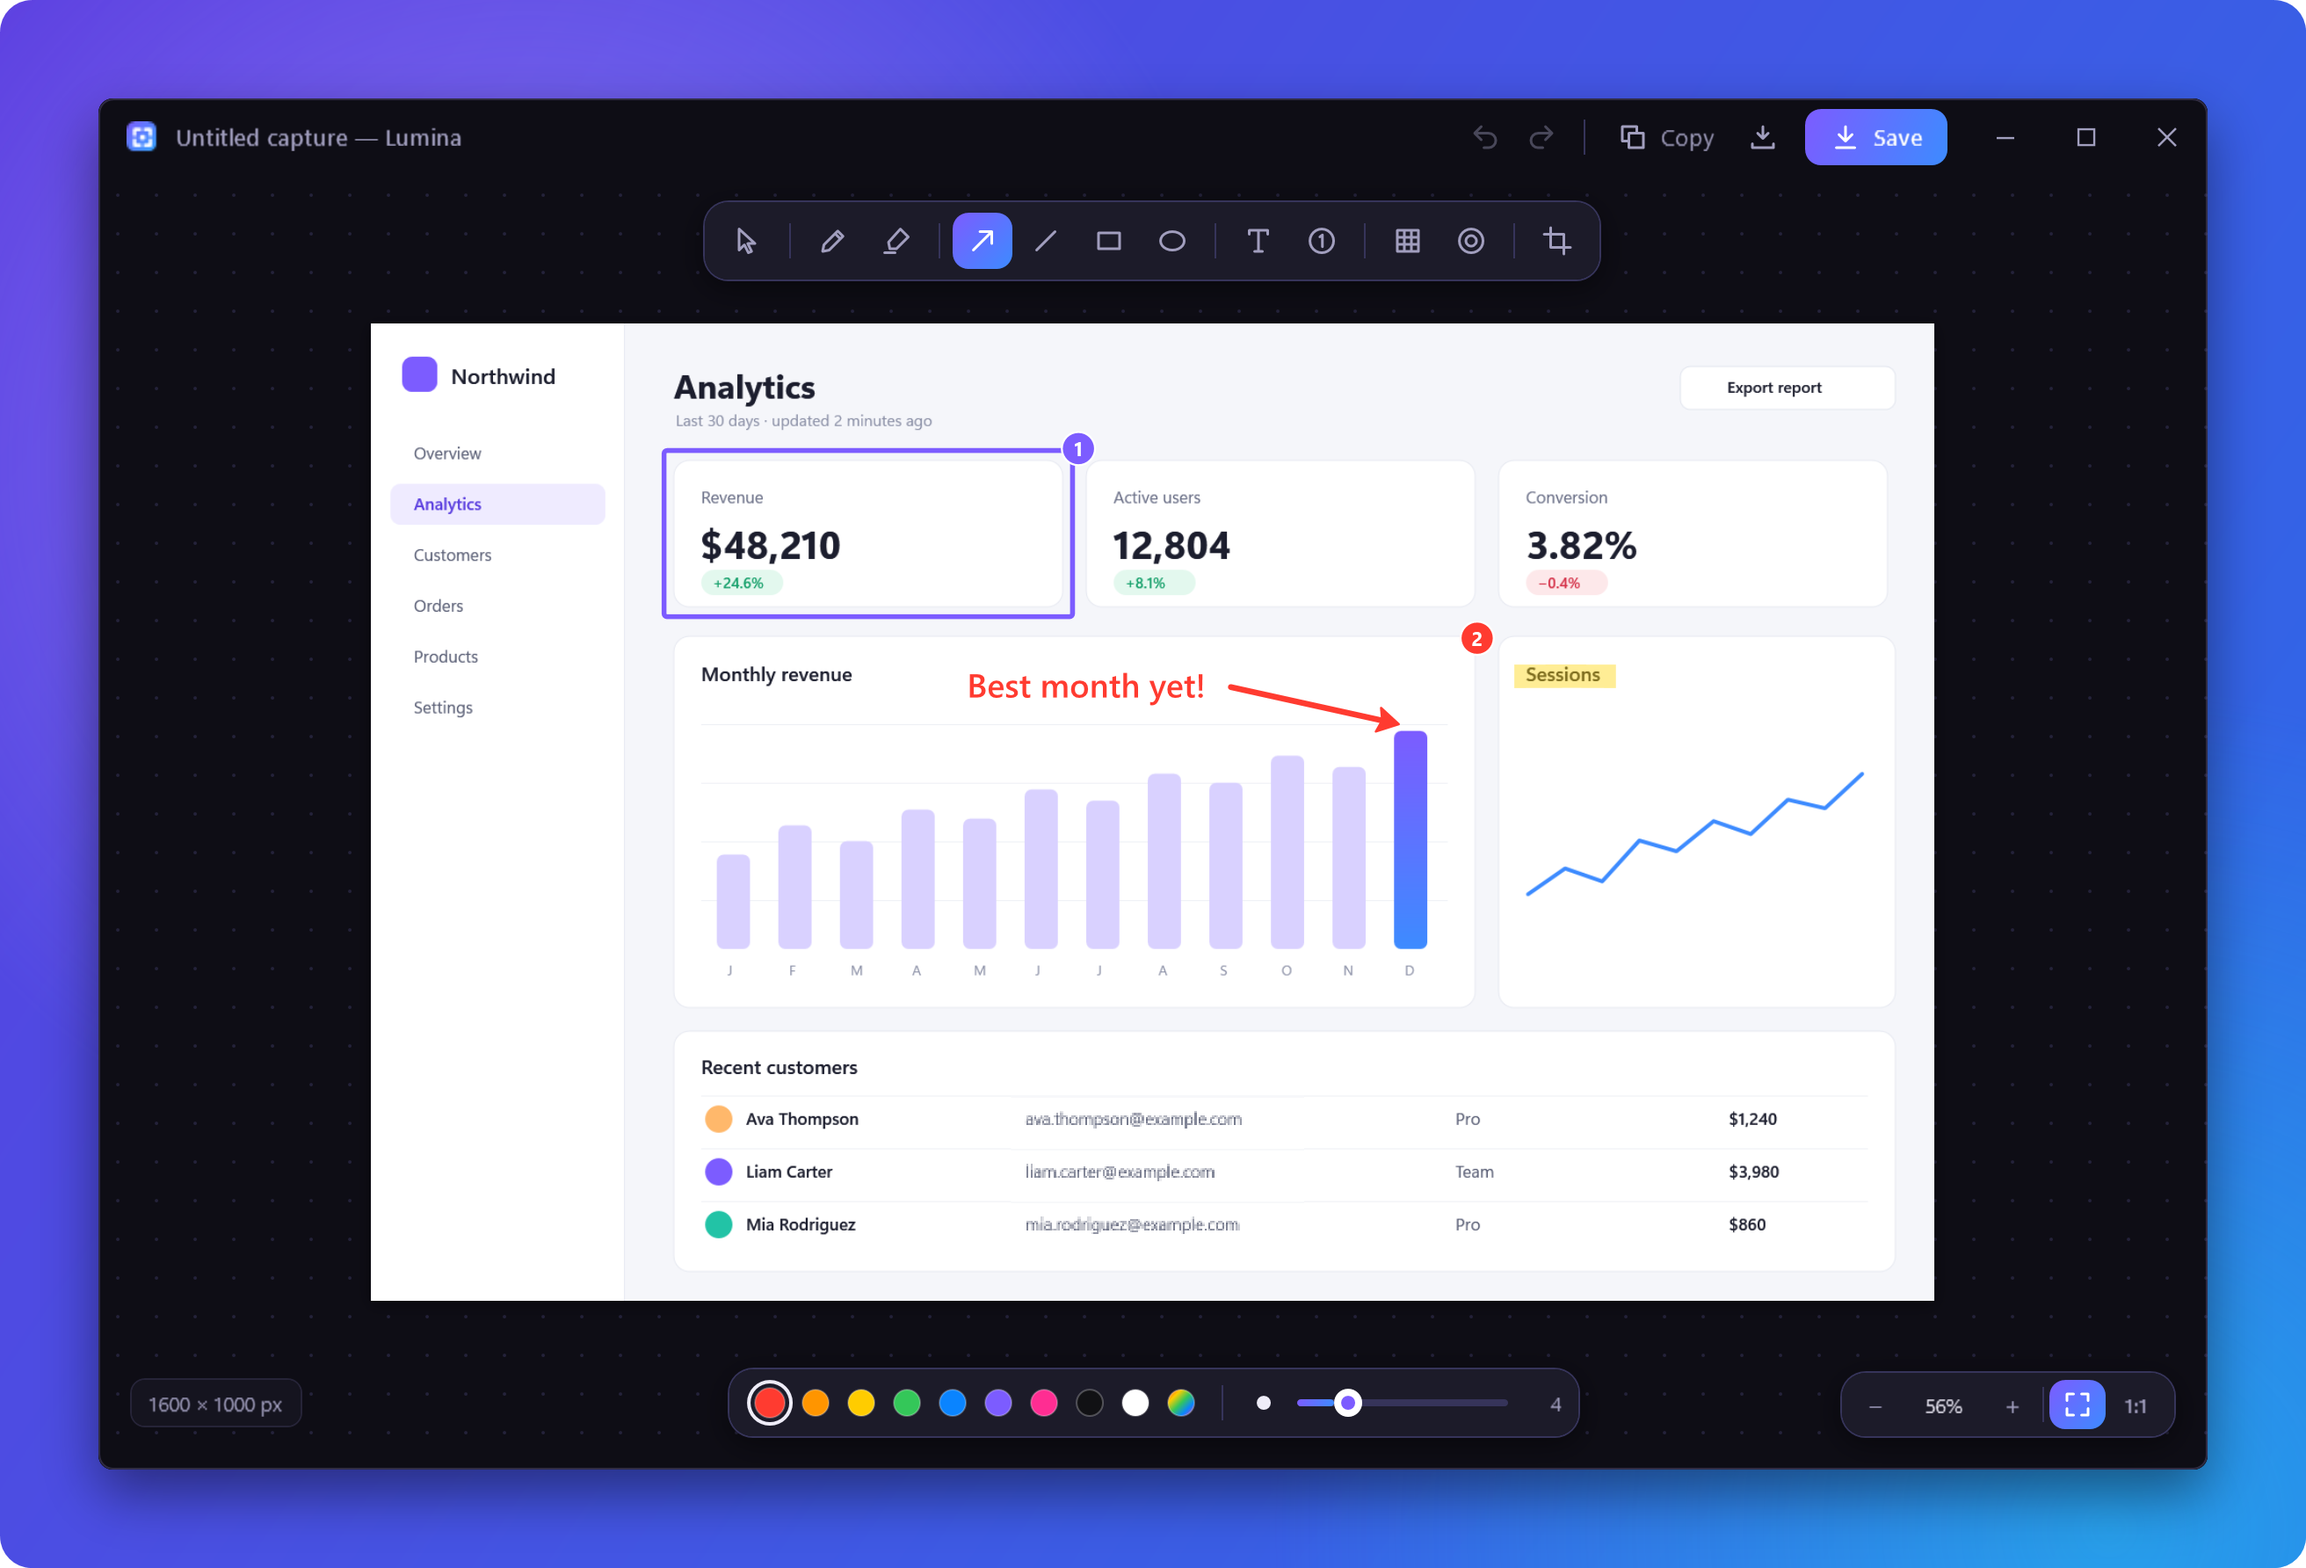
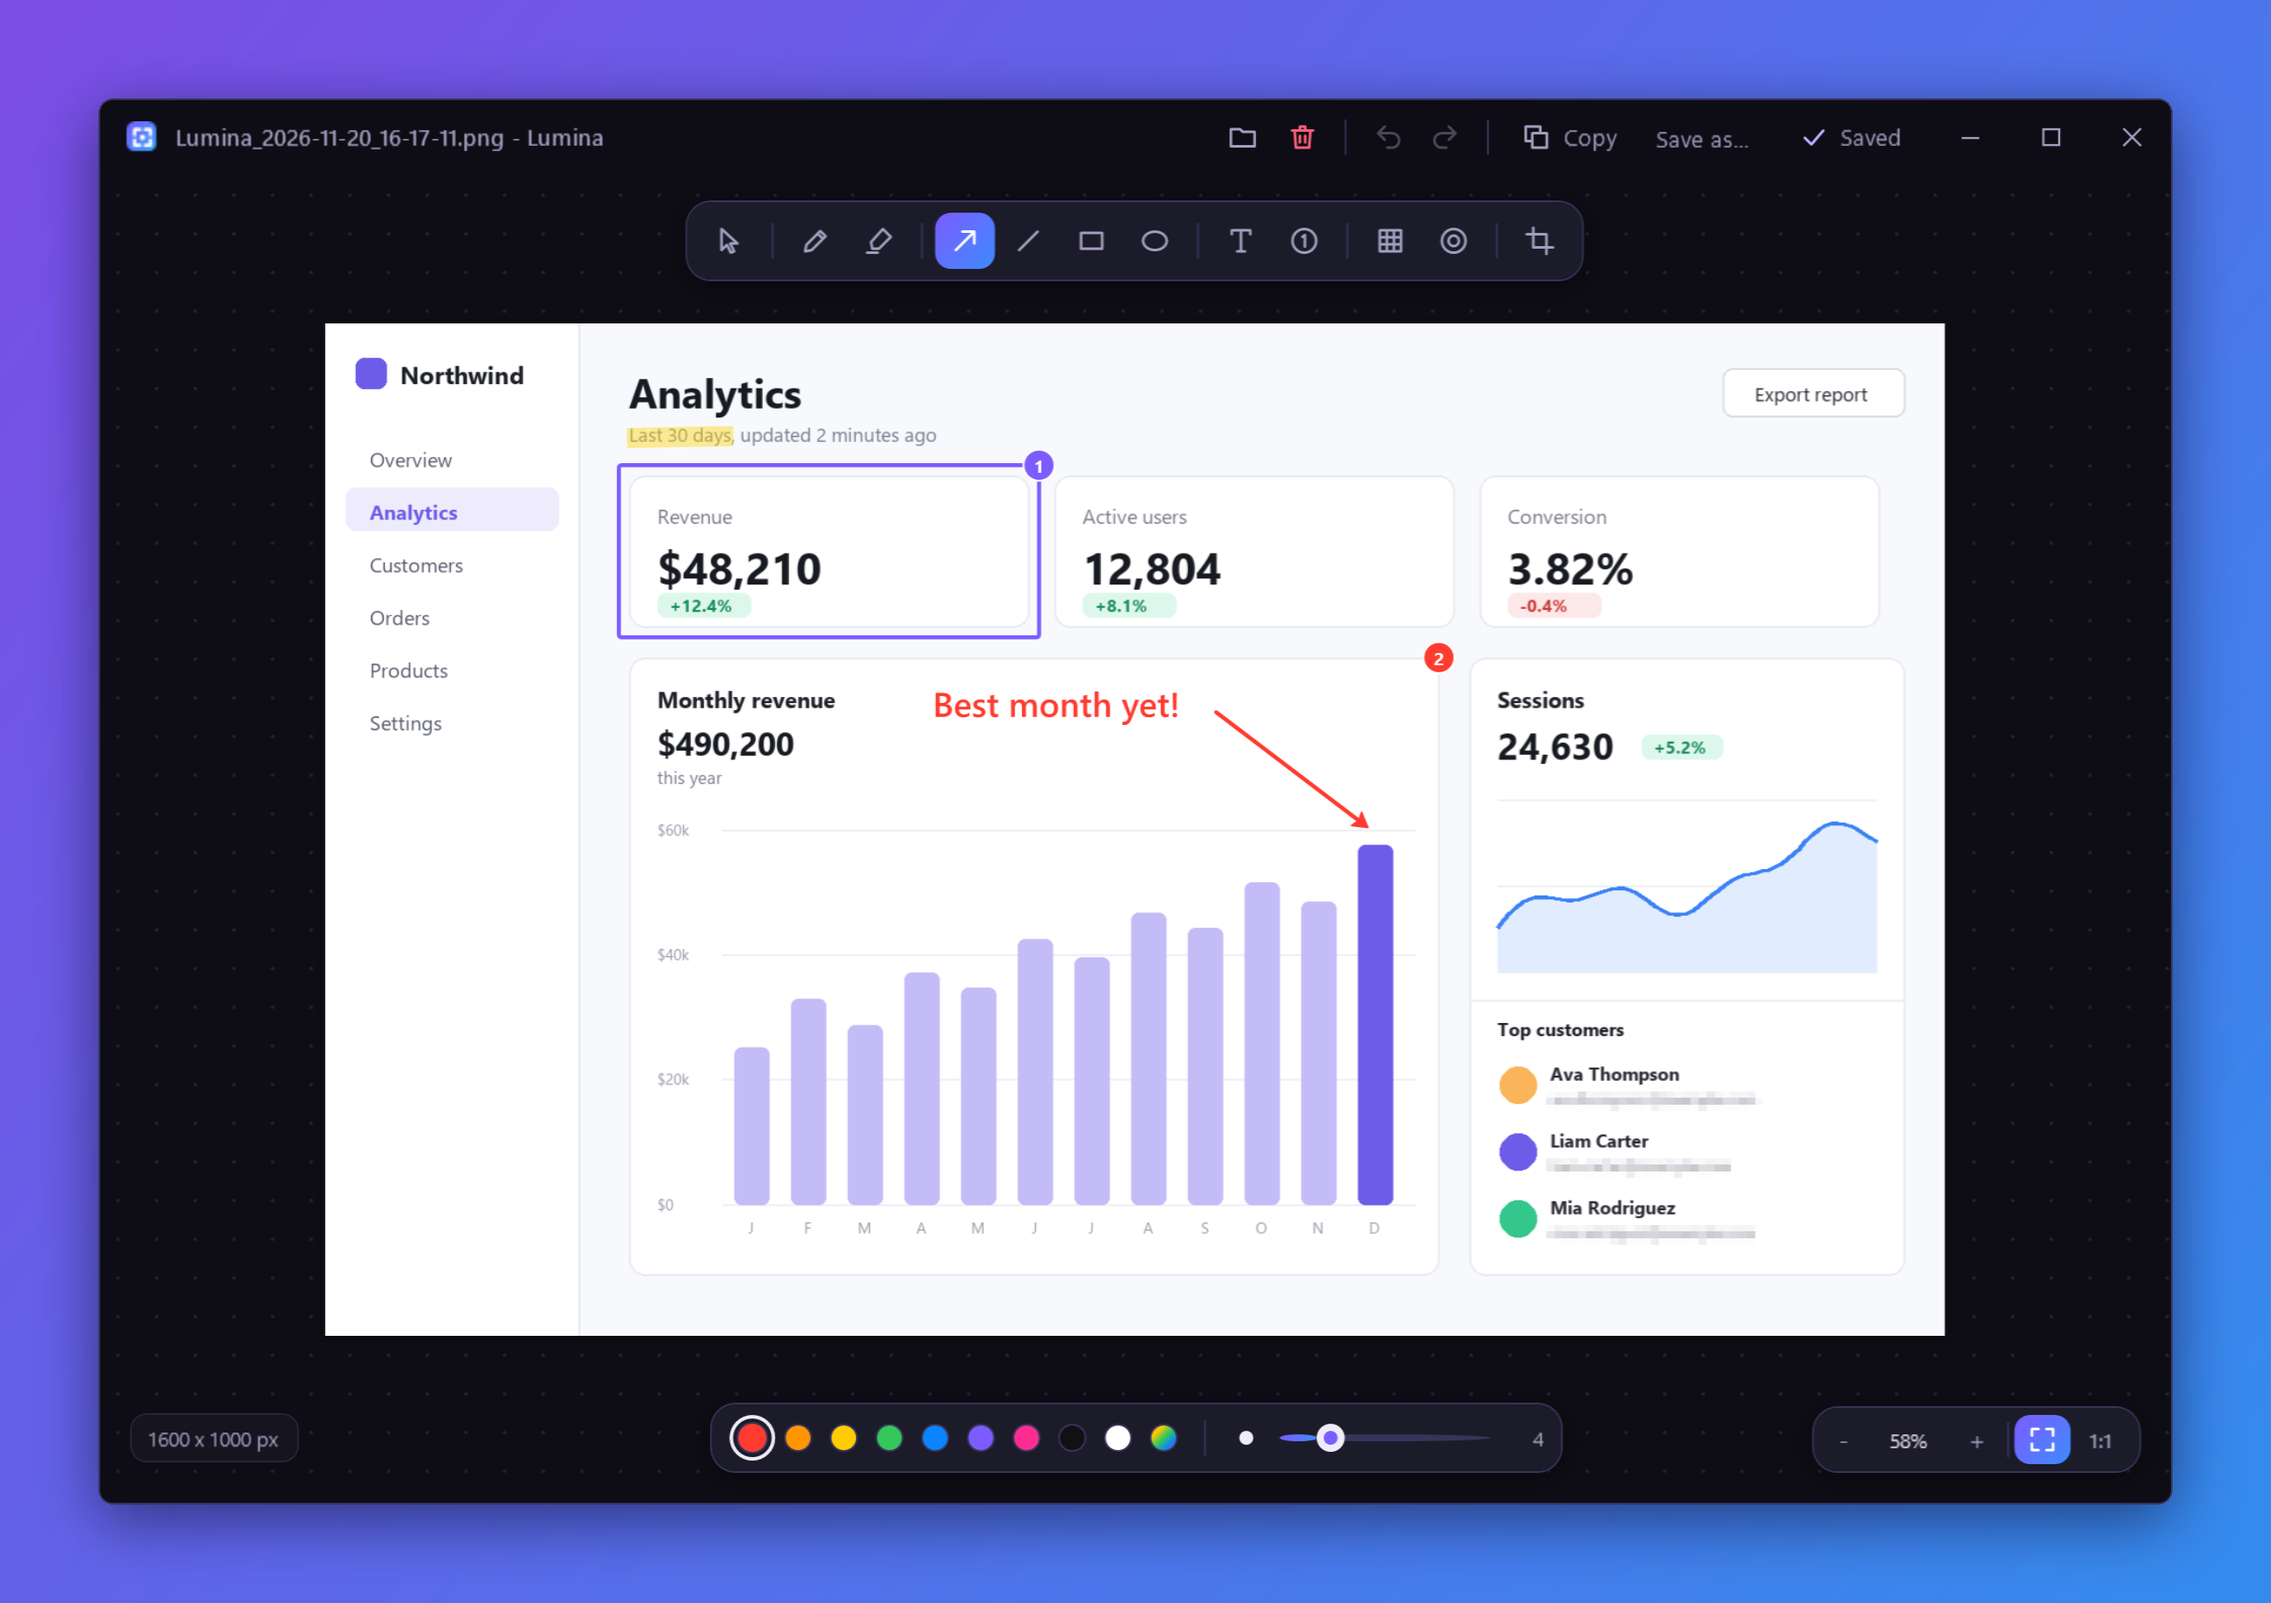
README: new editor, trim and themes screenshots (#12)
The markup editor and trim screenshots now show the current UI, rendered
from the real windows with made-up demo content. The themes section shows
the six preset tiles from Settings > Appearance instead of the stacked
windows, and the separate Appearance screenshot is gone.

diff --git a/README.md b/README.md
@@ -32,7 +32,7 @@ A lightweight, modern screenshot and screen recording tool for Windows - a repla
 - Open any image file from the home window to mark it up.
 - Smooth zoom (Ctrl + scroll zooms around the cursor), fit-to-window and 1:1, full undo/redo.
 
-![The markup editor with a box, numbered steps, an arrow, text, a highlight and blurred emails](docs/screenshots/editor.png)
+![The markup editor with a box, numbered steps, an arrow, text, a highlight and pixelated emails](docs/screenshots/editor.png)
 
 ### Screen recording
 - **Win + Shift + R** (or the Record card / tray menu) picks a region, window or screen with the same overlay, then counts down and records.
@@ -68,9 +68,7 @@ A lightweight, modern screenshot and screen recording tool for Windows - a repla
 - **Change any part of a theme**: every color (with a readability check), the font, corners, line weight, depth (flat, soft, glow or blocky) and background pattern. Changes show in every window at once.
 - **Export and import** themes as small JSON files to share or keep.
 
-![The home window in five themes, stacked: Midnight, Graphite, Paper, Ember and Strider in front](docs/screenshots/themes.png)
-
-<p align="center"><img src="docs/screenshots/settings.png" width="520" alt="Settings, Appearance: the six theme presets and their colors"></p>
+<p align="center"><img src="docs/screenshots/themes.png" width="640" alt="Settings, Appearance: the six theme presets, Midnight, Graphite, Paper, Ember, Strider and System"></p>
 
 ## Install
 
